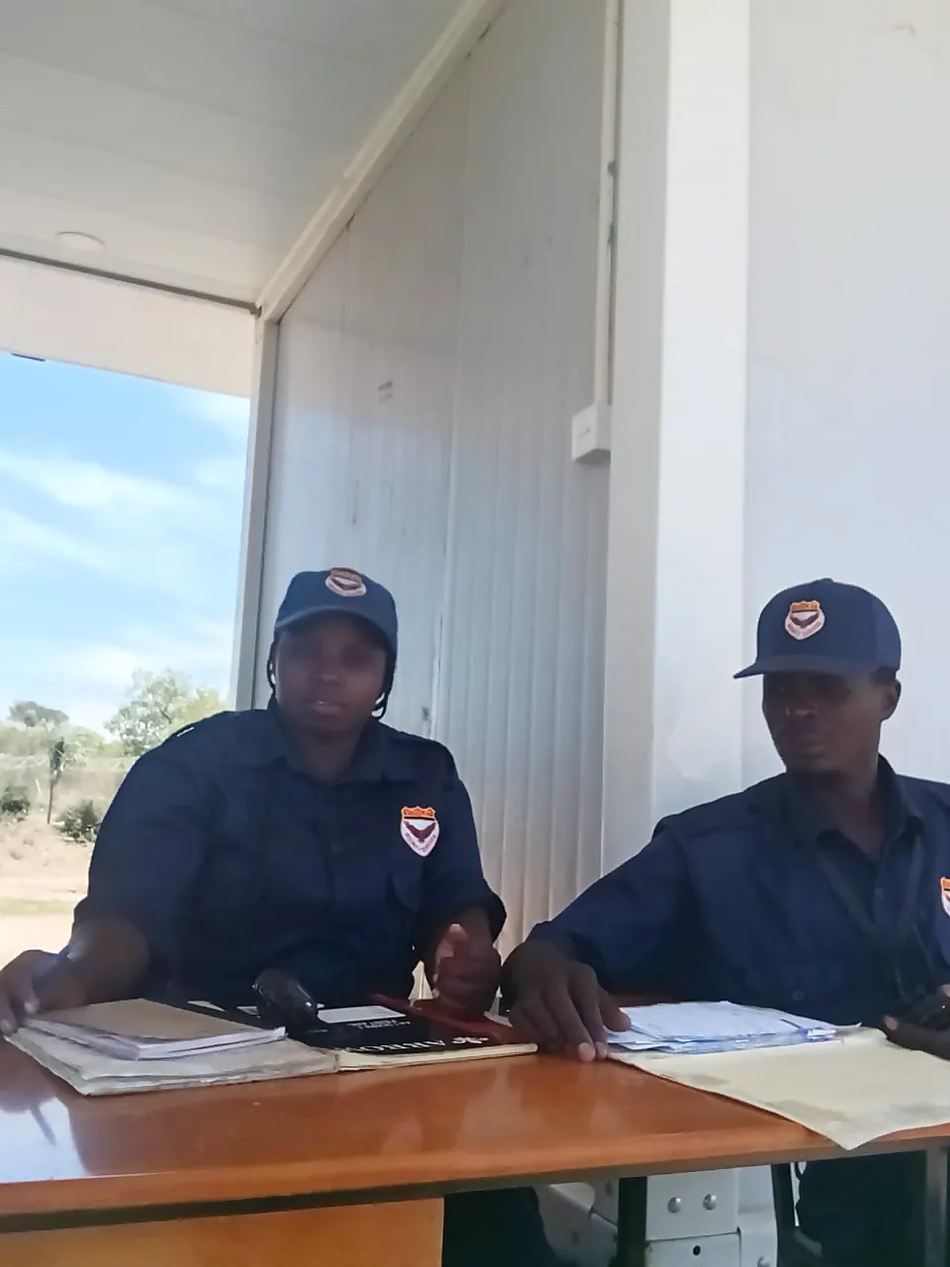
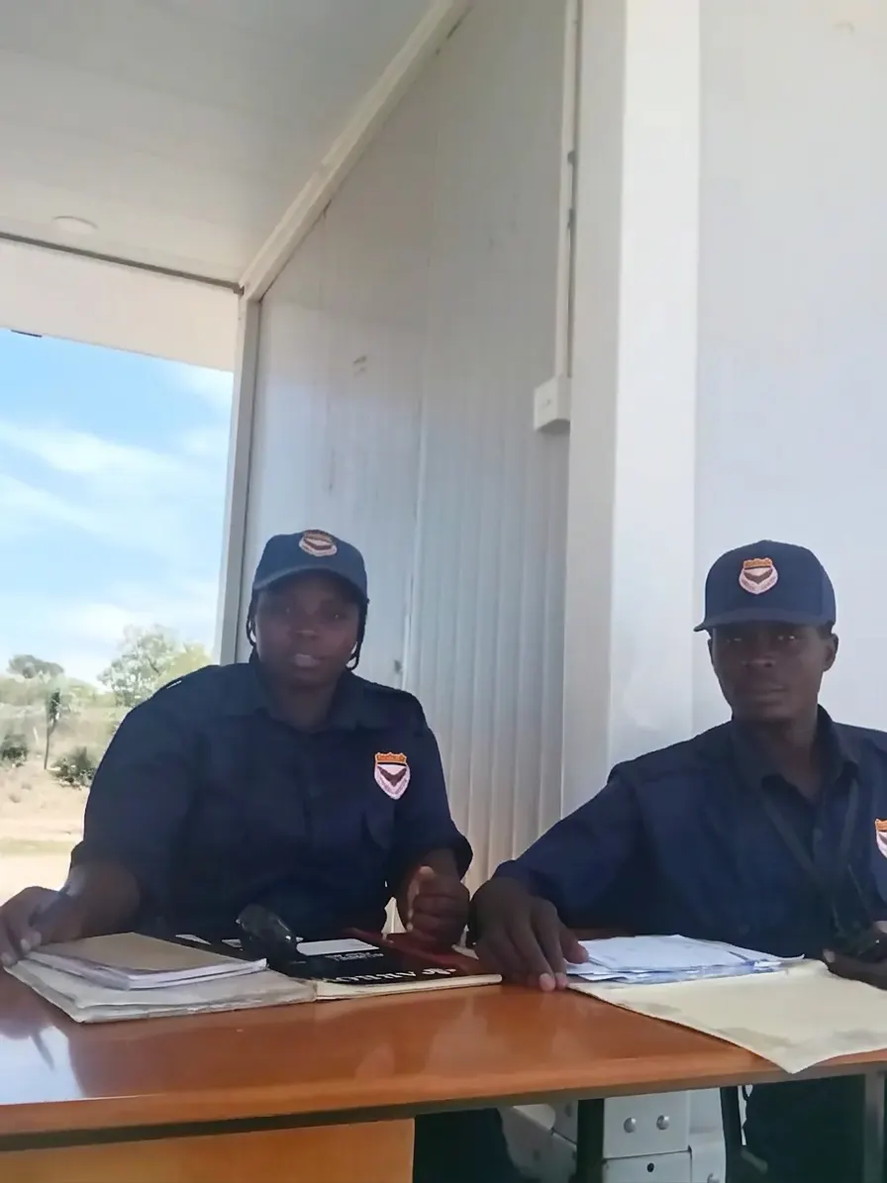
Fire drill + first aid equipment-only images, eye retouch, services above the archive
Imagery
- Fire drill and First aid now show the equipment and nothing else: one red
  extinguisher with its seal and blank inspection tag, one open first aid kit.
  Both live in assets/images/concept/ and carry the ILLUSTRATIVE CONCEPT IMAGE
  label, because the 152-capture archive holds no photograph of either object
  (the closest real frame, IMG_9313, is a drill on the grass). Each block also
  gains a sentence saying why the frame is the kit / the extinguisher.
- Retouched the gatehouse frame (wa-02) so the officer on the right is no
  longer mid-blink. The master sits in assets/retouched/ and process-wa-frames.sh
  now prefers a retouched master over the WhatsApp original and skips the
  filter for it, since the edit was made from the already-filtered derivative.
  Same people, pose, desk and light; nothing else in the frame changed.

Landing page order
- Services is now section 01 and the archive teaser follows at 02, then fleet
  03, cash-in-transit 04, about 05, estimator 06, dispatch 07. Header nav and
  the mobile drawer are reordered to match, and build_services.py's drawer
  rewrite follows the new number.
- Fixed the stale "12 SELECTED / 35 ARCHIVED" counter, which sits outside the
  generator's markers and so never updated with the new frames.

diff --git a/index.html b/index.html
@@ -70,9 +70,9 @@
       </a>
       <nav class="desktop-nav" aria-label="Primary navigation">
         <a class="nav-link is-active" href="#home">Home</a>
+        <a class="nav-link" href="#services">Services</a>
         <a class="nav-link" href="archive.html">Archive</a>
         <a class="nav-link" href="#fleet">Fleet</a>
-        <a class="nav-link" href="#services">Services</a>
         <a class="nav-link" href="#about">About</a>
         <a class="nav-link" href="#dispatch">Dispatch</a>
       </nav>
@@ -94,9 +94,9 @@
     </div>
     <nav class="drawer-nav" aria-label="Mobile navigation">
       <a href="#home"><span>01</span> Home <svg class="icon" aria-hidden="true"><use href="#i-up-right"/></svg></a>
-      <a href="archive.html"><span>02</span> Photo Archive <svg class="icon" aria-hidden="true"><use href="#i-up-right"/></svg></a>
-      <a href="#fleet"><span>03</span> Fleet &amp; Tech <svg class="icon" aria-hidden="true"><use href="#i-up-right"/></svg></a>
-      <a href="#services"><span>04</span> Services <svg class="icon" aria-hidden="true"><use href="#i-up-right"/></svg></a>
+      <a href="#services"><span>02</span> Services <svg class="icon" aria-hidden="true"><use href="#i-up-right"/></svg></a>
+      <a href="archive.html"><span>03</span> Photo Archive <svg class="icon" aria-hidden="true"><use href="#i-up-right"/></svg></a>
+      <a href="#fleet"><span>04</span> Fleet &amp; Tech <svg class="icon" aria-hidden="true"><use href="#i-up-right"/></svg></a>
       <a href="#about"><span>05</span> About Vonlet <svg class="icon" aria-hidden="true"><use href="#i-up-right"/></svg></a>
       <a href="#dispatch"><span>06</span> Dispatch / Contact <svg class="icon" aria-hidden="true"><use href="#i-up-right"/></svg></a>
     </nav>
@@ -166,12 +166,82 @@
       </div>
     </section>
 
+    <!-- SERVICES -->
+    <section class="section services-section" id="services" aria-labelledby="services-title">
+      <div class="container services-layout">
+        <div class="services-intro reveal">
+          <p class="eyebrow"><span class="section-number">01</span> INTEGRATED SERVICES</p>
+          <h2 id="services-title">Built around<br>your risk.</h2>
+          <p>No two sites carry the same risk. Combine trained people, practical procedures and the right technology into one coordinated security plan — a warehouse gate, a banking hall, a farm boundary, a family home. Vonlet has provided these services to clients across Zimbabwe and Zambia since 2010.</p>
+          <a class="button button--outline" href="#estimator">Build your coverage <svg class="icon" aria-hidden="true"><use href="#i-arrow"/></svg></a>
+          <div class="services-stamp"><svg class="icon" aria-hidden="true"><use href="#i-shield"/></svg><span>ONE PARTNER.<br><strong>EVERY LAYER.</strong></span></div>
+        </div>
+        <div class="service-list">
+          <article class="service-row reveal"><span class="service-number">01</span><div class="service-icon"><svg class="icon" aria-hidden="true"><use href="#i-shield"/></svg></div><div><h3>Armed &amp; unarmed guarding</h3><p>Static posts and roving patrols. Armed officers train intensively in-house with the Zimbabwe Republic Police and the Zambia National Police, and are deployed to higher-risk sites such as mines, fuel depots and premises holding valuable goods.</p></div><button class="service-link" type="button" data-service-link="armed" aria-label="Inquire about armed and unarmed guarding"><svg class="icon" aria-hidden="true"><use href="#i-up-right"/></svg></button></article>
+          <article class="service-row reveal"><span class="service-number">02</span><div class="service-icon"><svg class="icon" aria-hidden="true"><use href="#i-paw"/></svg></div><div><h3>K-9 services</h3><p>Watch and attack dogs supplied with handlers, plus dog handling training. The unit uses motivational training techniques and works alongside guards and law enforcement.</p></div><button class="service-link" type="button" data-service-link="k9" aria-label="Inquire about K-9 services"><svg class="icon" aria-hidden="true"><use href="#i-up-right"/></svg></button></article>
+          <article class="service-row reveal"><span class="service-number">03</span><div class="service-icon"><svg class="icon" aria-hidden="true"><use href="#i-camera"/></svg></div><div><h3>Electronic security &amp; CCTV</h3><p>CCTV systems, access control and intruder alarms — installed, maintained and monitored by Vonlet's technical team, with 24/7/365 support on protection.</p></div><button class="service-link" type="button" data-service-link="cctv" aria-label="Inquire about electronic security and CCTV"><svg class="icon" aria-hidden="true"><use href="#i-up-right"/></svg></button></article>
+          <article class="service-row reveal"><span class="service-number">04</span><div class="service-icon"><svg class="icon" aria-hidden="true"><use href="#i-radio"/></svg></div><div><h3>Rapid response &amp; monitoring</h3><p>Alarm systems linked to Vonlet's control room, plus a real-time guard tour platform built on NFC, beacon and QR-code tags that reports each checkpoint scan as it happens.</p></div><button class="service-link" type="button" data-service-link="response" aria-label="Inquire about rapid response and guard monitoring"><svg class="icon" aria-hidden="true"><use href="#i-up-right"/></svg></button></article>
+          <article class="service-row reveal"><span class="service-number">05</span><div class="service-icon"><svg class="icon" aria-hidden="true"><use href="#i-car"/></svg></div><div><h3>Cash-in-transit</h3><p>Management of the cash collection service: task assignment, route selection and accounting for all books, supported by Vonlet's branded fleet.</p></div><button class="service-link" type="button" data-service-link="cit" aria-label="Inquire about cash-in-transit"><svg class="icon" aria-hidden="true"><use href="#i-up-right"/></svg></button></article>
+          <article class="service-row reveal"><span class="service-number">06</span><div class="service-icon"><svg class="icon" aria-hidden="true"><use href="#i-lock"/></svg></div><div><h3>Undercover guards</h3><p>Discreet guards placed into your workplace to work alongside your staff, report on weak points and help prevent cash theft, shoplifting and vandalism.</p></div><button class="service-link" type="button" data-service-link="secret" aria-label="Inquire about undercover guards"><svg class="icon" aria-hidden="true"><use href="#i-up-right"/></svg></button></article>
+        </div>
+        <div class="service-sectors reveal">
+          <div class="service-sectors-head">
+            <p class="eyebrow">SECTORS WE GUARD<span class="service-sectors-tag">8 LINES</span></p>
+            <p>Where the risk actually sits: a banking hall and its ATM, a warehouse gate, a store floor, a farm boundary, an estate entrance, a function, a car in transit, a case that needs proving. The company gave us these eight directly for this site.</p>
+          </div>
+          <ul class="service-sectors-grid">
+            <li><a href="services.html#bank-and-atm-security"><span>01</span>Bank &amp; ATM security <svg class="icon" aria-hidden="true"><use href="#i-arrow"/></svg></a></li>
+            <li><a href="services.html#warehouse-security"><span>02</span>Warehouse &amp; logistics <svg class="icon" aria-hidden="true"><use href="#i-arrow"/></svg></a></li>
+            <li><a href="services.html#retail-security"><span>03</span>Retail security <svg class="icon" aria-hidden="true"><use href="#i-arrow"/></svg></a></li>
+            <li><a href="services.html#farms-and-mines-security"><span>04</span>Farms &amp; mines <svg class="icon" aria-hidden="true"><use href="#i-arrow"/></svg></a></li>
+            <li><a href="services.html#residential-security"><span>05</span>Residential &amp; estates <svg class="icon" aria-hidden="true"><use href="#i-arrow"/></svg></a></li>
+            <li><a href="services.html#functions-security"><span>06</span>Functions &amp; events <svg class="icon" aria-hidden="true"><use href="#i-arrow"/></svg></a></li>
+            <li><a href="services.html#private-escorts"><span>07</span>Private escorts <svg class="icon" aria-hidden="true"><use href="#i-arrow"/></svg></a></li>
+            <li><a href="services.html#private-investigations"><span>08</span>Private investigations <svg class="icon" aria-hidden="true"><use href="#i-arrow"/></svg></a></li>
+          </ul>
+        </div>
+        <div class="service-index reveal">
+          <div class="service-index-head">
+            <p class="eyebrow">ALL TWENTY-THREE SERVICE LINES</p>
+            <p>Fourteen published services plus cash-in-transit, and the eight sector, escort and investigation lines above, each described in full on this site. Every line has its own page section with what it covers, what is included and a direct request button.</p>
+            <a class="button button--outline" href="services.html">Read all twenty-three service lines <svg class="icon" aria-hidden="true"><use href="#i-arrow"/></svg></a>
+          </div>
+          <ul class="service-index-grid">
+            <li><a href="services.html#armed-guards">Armed guards <svg class="icon" aria-hidden="true"><use href="#i-arrow"/></svg></a></li>
+            <li><a href="services.html#unarmed-guards">Unarmed guards <svg class="icon" aria-hidden="true"><use href="#i-arrow"/></svg></a></li>
+            <li><a href="services.html#bank-and-atm-security">Bank &amp; ATM security <svg class="icon" aria-hidden="true"><use href="#i-arrow"/></svg></a></li>
+            <li><a href="services.html#warehouse-security">Warehouse security <svg class="icon" aria-hidden="true"><use href="#i-arrow"/></svg></a></li>
+            <li><a href="services.html#retail-security">Retail security <svg class="icon" aria-hidden="true"><use href="#i-arrow"/></svg></a></li>
+            <li><a href="services.html#farms-and-mines-security">Farms &amp; mines security <svg class="icon" aria-hidden="true"><use href="#i-arrow"/></svg></a></li>
+            <li><a href="services.html#residential-security">Residential security <svg class="icon" aria-hidden="true"><use href="#i-arrow"/></svg></a></li>
+            <li><a href="services.html#functions-security">Functions security <svg class="icon" aria-hidden="true"><use href="#i-arrow"/></svg></a></li>
+            <li><a href="services.html#private-escorts">Private escorts <svg class="icon" aria-hidden="true"><use href="#i-arrow"/></svg></a></li>
+            <li><a href="services.html#private-investigations">Private investigations <svg class="icon" aria-hidden="true"><use href="#i-arrow"/></svg></a></li>
+            <li><a href="services.html#secret-service">Secret service <svg class="icon" aria-hidden="true"><use href="#i-arrow"/></svg></a></li>
+            <li><a href="services.html#dog-services">Dog services <svg class="icon" aria-hidden="true"><use href="#i-arrow"/></svg></a></li>
+            <li><a href="services.html#dog-handling-training">Dog handling training <svg class="icon" aria-hidden="true"><use href="#i-arrow"/></svg></a></li>
+            <li><a href="services.html#secret-service">Secret service <svg class="icon" aria-hidden="true"><use href="#i-arrow"/></svg></a></li>
+            <li><a href="services.html#close-circuit-television-cctv">CCTV <svg class="icon" aria-hidden="true"><use href="#i-arrow"/></svg></a></li>
+            <li><a href="services.html#access-control-systems">Access control <svg class="icon" aria-hidden="true"><use href="#i-arrow"/></svg></a></li>
+            <li><a href="services.html#intruder-alarm-systems">Intruder alarms <svg class="icon" aria-hidden="true"><use href="#i-arrow"/></svg></a></li>
+            <li><a href="services.html#rapid-response-systems">Rapid response <svg class="icon" aria-hidden="true"><use href="#i-arrow"/></svg></a></li>
+            <li><a href="services.html#guard-monitoring-systems">Guard monitoring <svg class="icon" aria-hidden="true"><use href="#i-arrow"/></svg></a></li>
+            <li><a href="services.html#basic-security-guard-training">Basic guard training <svg class="icon" aria-hidden="true"><use href="#i-arrow"/></svg></a></li>
+            <li><a href="services.html#firearm-handling">Firearm handling <svg class="icon" aria-hidden="true"><use href="#i-arrow"/></svg></a></li>
+            <li><a href="services.html#fire-drill">Fire drill <svg class="icon" aria-hidden="true"><use href="#i-arrow"/></svg></a></li>
+            <li><a href="services.html#first-aid">First aid <svg class="icon" aria-hidden="true"><use href="#i-arrow"/></svg></a></li>
+            <li><a href="services.html#cash-in-transit">Cash-in-transit <svg class="icon" aria-hidden="true"><use href="#i-arrow"/></svg></a></li>
+          </ul>
+        </div>
+      </div>
+    </section>
+
     <!-- OPERATIONS GALLERY -->
     <section class="section gallery-section" id="gallery" aria-labelledby="gallery-title">
       <div class="container">
         <div class="section-heading reveal">
           <div>
-            <p class="eyebrow"><span class="section-number">01</span> SELECTED FROM THE ARCHIVE</p>
+            <p class="eyebrow"><span class="section-number">02</span> SELECTED FROM THE ARCHIVE</p>
             <h2 id="gallery-title">Fourteen frames<br>from the work.</h2>
           </div>
           <p class="section-intro">Fourteen photographs chosen from Vonlet's company archive: the chief executive, tactical teams, the operations desk, K-9 units, the fleet, the technical crew and officers on site this month. Near-identical frames were culled, so each image shows something the others do not. The full set, filtered by collection, has its own page.</p>
@@ -383,7 +453,7 @@
         </div>
         <div class="gallery-footnote">
           <p><svg class="icon" aria-hidden="true"><use href="#i-info"/></svg> Authentic photographs from the Vonlet company archive. Names of individual officers and clients are withheld; captions describe what is visible in each frame.</p>
-          <span id="gallery-count">12 SELECTED / 35 ARCHIVED</span>
+          <span id="gallery-count">14 SELECTED / 42 ARCHIVED</span>
         </div>
       </div>
     </section>
@@ -393,7 +463,7 @@
       <div class="container">
         <div class="section-heading reveal">
           <div>
-            <p class="eyebrow"><span class="section-number">02</span> FLEET &amp; TECHNOLOGY</p>
+            <p class="eyebrow"><span class="section-number">03</span> FLEET &amp; TECHNOLOGY</p>
             <h2 id="fleet-title">Capability, down to the detail.</h2>
           </div>
           <p class="section-intro">The vehicles, protective equipment and electronic systems behind a Vonlet deployment. Each panel is drawn from the company's own operational photographs.</p>
@@ -434,75 +504,6 @@
       </div>
     </section>
 
-    <!-- SERVICES -->
-    <section class="section services-section" id="services" aria-labelledby="services-title">
-      <div class="container services-layout">
-        <div class="services-intro reveal">
-          <p class="eyebrow"><span class="section-number">03</span> INTEGRATED SERVICES</p>
-          <h2 id="services-title">Built around<br>your risk.</h2>
-          <p>No two sites carry the same risk. Combine trained people, practical procedures and the right technology into one coordinated security plan — a warehouse gate, a banking hall, a farm boundary, a family home. Vonlet has provided these services to clients across Zimbabwe and Zambia since 2010.</p>
-          <a class="button button--outline" href="#estimator">Build your coverage <svg class="icon" aria-hidden="true"><use href="#i-arrow"/></svg></a>
-          <div class="services-stamp"><svg class="icon" aria-hidden="true"><use href="#i-shield"/></svg><span>ONE PARTNER.<br><strong>EVERY LAYER.</strong></span></div>
-        </div>
-        <div class="service-list">
-          <article class="service-row reveal"><span class="service-number">01</span><div class="service-icon"><svg class="icon" aria-hidden="true"><use href="#i-shield"/></svg></div><div><h3>Armed &amp; unarmed guarding</h3><p>Static posts and roving patrols. Armed officers train intensively in-house with the Zimbabwe Republic Police and the Zambia National Police, and are deployed to higher-risk sites such as mines, fuel depots and premises holding valuable goods.</p></div><button class="service-link" type="button" data-service-link="armed" aria-label="Inquire about armed and unarmed guarding"><svg class="icon" aria-hidden="true"><use href="#i-up-right"/></svg></button></article>
-          <article class="service-row reveal"><span class="service-number">02</span><div class="service-icon"><svg class="icon" aria-hidden="true"><use href="#i-paw"/></svg></div><div><h3>K-9 services</h3><p>Watch and attack dogs supplied with handlers, plus dog handling training. The unit uses motivational training techniques and works alongside guards and law enforcement.</p></div><button class="service-link" type="button" data-service-link="k9" aria-label="Inquire about K-9 services"><svg class="icon" aria-hidden="true"><use href="#i-up-right"/></svg></button></article>
-          <article class="service-row reveal"><span class="service-number">03</span><div class="service-icon"><svg class="icon" aria-hidden="true"><use href="#i-camera"/></svg></div><div><h3>Electronic security &amp; CCTV</h3><p>CCTV systems, access control and intruder alarms — installed, maintained and monitored by Vonlet's technical team, with 24/7/365 support on protection.</p></div><button class="service-link" type="button" data-service-link="cctv" aria-label="Inquire about electronic security and CCTV"><svg class="icon" aria-hidden="true"><use href="#i-up-right"/></svg></button></article>
-          <article class="service-row reveal"><span class="service-number">04</span><div class="service-icon"><svg class="icon" aria-hidden="true"><use href="#i-radio"/></svg></div><div><h3>Rapid response &amp; monitoring</h3><p>Alarm systems linked to Vonlet's control room, plus a real-time guard tour platform built on NFC, beacon and QR-code tags that reports each checkpoint scan as it happens.</p></div><button class="service-link" type="button" data-service-link="response" aria-label="Inquire about rapid response and guard monitoring"><svg class="icon" aria-hidden="true"><use href="#i-up-right"/></svg></button></article>
-          <article class="service-row reveal"><span class="service-number">05</span><div class="service-icon"><svg class="icon" aria-hidden="true"><use href="#i-car"/></svg></div><div><h3>Cash-in-transit</h3><p>Management of the cash collection service: task assignment, route selection and accounting for all books, supported by Vonlet's branded fleet.</p></div><button class="service-link" type="button" data-service-link="cit" aria-label="Inquire about cash-in-transit"><svg class="icon" aria-hidden="true"><use href="#i-up-right"/></svg></button></article>
-          <article class="service-row reveal"><span class="service-number">06</span><div class="service-icon"><svg class="icon" aria-hidden="true"><use href="#i-lock"/></svg></div><div><h3>Undercover guards</h3><p>Discreet guards placed into your workplace to work alongside your staff, report on weak points and help prevent cash theft, shoplifting and vandalism.</p></div><button class="service-link" type="button" data-service-link="secret" aria-label="Inquire about undercover guards"><svg class="icon" aria-hidden="true"><use href="#i-up-right"/></svg></button></article>
-        </div>
-        <div class="service-sectors reveal">
-          <div class="service-sectors-head">
-            <p class="eyebrow">SECTORS WE GUARD<span class="service-sectors-tag">8 LINES</span></p>
-            <p>Where the risk actually sits: a banking hall and its ATM, a warehouse gate, a store floor, a farm boundary, an estate entrance, a function, a car in transit, a case that needs proving. The company gave us these eight directly for this site.</p>
-          </div>
-          <ul class="service-sectors-grid">
-            <li><a href="services.html#bank-and-atm-security"><span>01</span>Bank &amp; ATM security <svg class="icon" aria-hidden="true"><use href="#i-arrow"/></svg></a></li>
-            <li><a href="services.html#warehouse-security"><span>02</span>Warehouse &amp; logistics <svg class="icon" aria-hidden="true"><use href="#i-arrow"/></svg></a></li>
-            <li><a href="services.html#retail-security"><span>03</span>Retail security <svg class="icon" aria-hidden="true"><use href="#i-arrow"/></svg></a></li>
-            <li><a href="services.html#farms-and-mines-security"><span>04</span>Farms &amp; mines <svg class="icon" aria-hidden="true"><use href="#i-arrow"/></svg></a></li>
-            <li><a href="services.html#residential-security"><span>05</span>Residential &amp; estates <svg class="icon" aria-hidden="true"><use href="#i-arrow"/></svg></a></li>
-            <li><a href="services.html#functions-security"><span>06</span>Functions &amp; events <svg class="icon" aria-hidden="true"><use href="#i-arrow"/></svg></a></li>
-            <li><a href="services.html#private-escorts"><span>07</span>Private escorts <svg class="icon" aria-hidden="true"><use href="#i-arrow"/></svg></a></li>
-            <li><a href="services.html#private-investigations"><span>08</span>Private investigations <svg class="icon" aria-hidden="true"><use href="#i-arrow"/></svg></a></li>
-          </ul>
-        </div>
-        <div class="service-index reveal">
-          <div class="service-index-head">
-            <p class="eyebrow">ALL TWENTY-THREE SERVICE LINES</p>
-            <p>Fourteen published services plus cash-in-transit, and the eight sector, escort and investigation lines above, each described in full on this site. Every line has its own page section with what it covers, what is included and a direct request button.</p>
-            <a class="button button--outline" href="services.html">Read all twenty-three service lines <svg class="icon" aria-hidden="true"><use href="#i-arrow"/></svg></a>
-          </div>
-          <ul class="service-index-grid">
-            <li><a href="services.html#armed-guards">Armed guards <svg class="icon" aria-hidden="true"><use href="#i-arrow"/></svg></a></li>
-            <li><a href="services.html#unarmed-guards">Unarmed guards <svg class="icon" aria-hidden="true"><use href="#i-arrow"/></svg></a></li>
-            <li><a href="services.html#bank-and-atm-security">Bank &amp; ATM security <svg class="icon" aria-hidden="true"><use href="#i-arrow"/></svg></a></li>
-            <li><a href="services.html#warehouse-security">Warehouse security <svg class="icon" aria-hidden="true"><use href="#i-arrow"/></svg></a></li>
-            <li><a href="services.html#retail-security">Retail security <svg class="icon" aria-hidden="true"><use href="#i-arrow"/></svg></a></li>
-            <li><a href="services.html#farms-and-mines-security">Farms &amp; mines security <svg class="icon" aria-hidden="true"><use href="#i-arrow"/></svg></a></li>
-            <li><a href="services.html#residential-security">Residential security <svg class="icon" aria-hidden="true"><use href="#i-arrow"/></svg></a></li>
-            <li><a href="services.html#functions-security">Functions security <svg class="icon" aria-hidden="true"><use href="#i-arrow"/></svg></a></li>
-            <li><a href="services.html#private-escorts">Private escorts <svg class="icon" aria-hidden="true"><use href="#i-arrow"/></svg></a></li>
-            <li><a href="services.html#private-investigations">Private investigations <svg class="icon" aria-hidden="true"><use href="#i-arrow"/></svg></a></li>
-            <li><a href="services.html#secret-service">Secret service <svg class="icon" aria-hidden="true"><use href="#i-arrow"/></svg></a></li>
-            <li><a href="services.html#dog-services">Dog services <svg class="icon" aria-hidden="true"><use href="#i-arrow"/></svg></a></li>
-            <li><a href="services.html#dog-handling-training">Dog handling training <svg class="icon" aria-hidden="true"><use href="#i-arrow"/></svg></a></li>
-            <li><a href="services.html#secret-service">Secret service <svg class="icon" aria-hidden="true"><use href="#i-arrow"/></svg></a></li>
-            <li><a href="services.html#close-circuit-television-cctv">CCTV <svg class="icon" aria-hidden="true"><use href="#i-arrow"/></svg></a></li>
-            <li><a href="services.html#access-control-systems">Access control <svg class="icon" aria-hidden="true"><use href="#i-arrow"/></svg></a></li>
-            <li><a href="services.html#intruder-alarm-systems">Intruder alarms <svg class="icon" aria-hidden="true"><use href="#i-arrow"/></svg></a></li>
-            <li><a href="services.html#rapid-response-systems">Rapid response <svg class="icon" aria-hidden="true"><use href="#i-arrow"/></svg></a></li>
-            <li><a href="services.html#guard-monitoring-systems">Guard monitoring <svg class="icon" aria-hidden="true"><use href="#i-arrow"/></svg></a></li>
-            <li><a href="services.html#basic-security-guard-training">Basic guard training <svg class="icon" aria-hidden="true"><use href="#i-arrow"/></svg></a></li>
-            <li><a href="services.html#firearm-handling">Firearm handling <svg class="icon" aria-hidden="true"><use href="#i-arrow"/></svg></a></li>
-            <li><a href="services.html#fire-drill">Fire drill <svg class="icon" aria-hidden="true"><use href="#i-arrow"/></svg></a></li>
-            <li><a href="services.html#first-aid">First aid <svg class="icon" aria-hidden="true"><use href="#i-arrow"/></svg></a></li>
-            <li><a href="services.html#cash-in-transit">Cash-in-transit <svg class="icon" aria-hidden="true"><use href="#i-arrow"/></svg></a></li>
-          </ul>
-        </div>
-      </div>
-    </section>
 
     <!-- CASH-IN-TRANSIT CONCEPT IMAGERY -->
     <section class="section cit-section" id="cash-in-transit" aria-labelledby="cit-title">

diff --git a/services.html b/services.html
@@ -68,9 +68,9 @@
       </a>
       <nav class="desktop-nav" aria-label="Primary navigation">
         <a class="nav-link" href="index.html#home">Home</a>
+        <a class="nav-link is-active" href="services.html" aria-current="page">Services</a>
         <a class="nav-link" href="archive.html">Archive</a>
         <a class="nav-link" href="index.html#fleet">Fleet</a>
-        <a class="nav-link is-active" href="services.html" aria-current="page">Services</a>
         <a class="nav-link" href="index.html#about">About</a>
         <a class="nav-link" href="index.html#dispatch">Dispatch</a>
       </nav>
@@ -92,9 +92,9 @@
     </div>
     <nav class="drawer-nav" aria-label="Mobile navigation">
       <a href="index.html#home"><span>01</span> Home <svg class="icon" aria-hidden="true"><use href="#i-up-right"/></svg></a>
-      <a href="archive.html"><span>02</span> Photo Archive <svg class="icon" aria-hidden="true"><use href="#i-up-right"/></svg></a>
-      <a href="index.html#fleet"><span>03</span> Fleet &amp; Tech <svg class="icon" aria-hidden="true"><use href="#i-up-right"/></svg></a>
-      <a href="services.html"><span>04</span> Services <svg class="icon" aria-hidden="true"><use href="#i-up-right"/></svg></a>
+      <a href="services.html"><span>02</span> Services <svg class="icon" aria-hidden="true"><use href="#i-up-right"/></svg></a>
+      <a href="archive.html"><span>03</span> Photo Archive <svg class="icon" aria-hidden="true"><use href="#i-up-right"/></svg></a>
+      <a href="index.html#fleet"><span>04</span> Fleet &amp; Tech <svg class="icon" aria-hidden="true"><use href="#i-up-right"/></svg></a>
       <a href="index.html#about"><span>05</span> About Vonlet <svg class="icon" aria-hidden="true"><use href="#i-up-right"/></svg></a>
       <a href="index.html#dispatch"><span>06</span> Dispatch / Contact <svg class="icon" aria-hidden="true"><use href="#i-up-right"/></svg></a>
     </nav>
@@ -634,9 +634,9 @@
           </article>
           <article class="service-block" id="fire-drill">
             <div class="service-block-media">
-              <img src="assets/images/full/IMG_9261.webp" alt="Vonlet staff seated around a conference table during a training session" loading="lazy" decoding="async">
+              <img src="assets/images/concept/fire-drill-equipment.jpg" alt="Illustration: a red dry-powder extinguisher with an intact safety seal and a blank inspection tag, standing against a corrugated steel kerb painted in faded hazard stripes" loading="lazy" decoding="async">
               <span class="service-block-index">19 / 23</span>
-              <span class="service-media-note">FROM THE COMPANY ARCHIVE</span>
+              <span class="service-media-note service-media-note--concept">ILLUSTRATIVE CONCEPT IMAGE — NOT A COMPANY PHOTOGRAPH</span>
             </div>
             <div class="service-block-body">
               <p class="eyebrow">TRAINING &amp; SAFETY</p>
@@ -644,6 +644,7 @@
               <p class="service-block-summary">Guards keep escape routes usable and fire equipment serviceable.</p>
               <div class="service-block-copy">
               <p>The guard on site ensures that fire extinguishers are neither expired nor damaged, clears corridors of impediments so people can evacuate quickly, and makes sure exit doors are kept clear and accessible to anyone who needs to leave.</p>
+              <p>The frame below is deliberately the equipment and nothing else: what a Vonlet officer checks on a fire round is the extinguisher in its bracket, its seal and its service tag, the pressure reading, and the path to the exit door.</p>
               </div>
               <ul class="service-points">
                 <li>Fire extinguisher checks</li>
@@ -659,9 +660,9 @@
           </article>
           <article class="service-block" id="first-aid">
             <div class="service-block-media">
-              <img src="assets/images/full/IMG_9264.webp" alt="Vonlet staff working around the training table with laptops open" loading="lazy" decoding="async">
+              <img src="assets/images/concept/first-aid-kit.jpg" alt="Illustration: an open white first aid kit on a concrete floor, with a rolled bandage, gauze pads, adhesive tape, scissors and disposable gloves, and a green cross inside the lid" loading="lazy" decoding="async">
               <span class="service-block-index">20 / 23</span>
-              <span class="service-media-note">FROM THE COMPANY ARCHIVE</span>
+              <span class="service-media-note service-media-note--concept">ILLUSTRATIVE CONCEPT IMAGE — NOT A COMPANY PHOTOGRAPH</span>
             </div>
             <div class="service-block-body">
               <p class="eyebrow">TRAINING &amp; SAFETY</p>
@@ -669,6 +670,7 @@
               <p class="service-block-summary">Life-saving training for the first minutes of a medical emergency.</p>
               <div class="service-block-copy">
               <p>First aid is the immediate treatment of a patient before trained medical personnel can take over. It is a core part of guard training at Vonlet rather than an optional extra, because it is the technique that keeps a casualty alive at the scene of an emergency.</p>
+              <p>The frame below shows the kit and nothing else, because the kit is the part the guard owns: the dressing, the tape, the gloves and the sling that have to be packed, in date and reachable before an ambulance can be.</p>
               </div>
               <ul class="service-points">
                 <li>Immediate casualty care</li>

diff --git a/tools/build_services.py b/tools/build_services.py
@@ -457,6 +457,7 @@ SERVICES = [
         summary="Guards keep escape routes usable and fire equipment serviceable.",
         paragraphs=[
             "The guard on site ensures that fire extinguishers are neither expired nor damaged, clears corridors of impediments so people can evacuate quickly, and makes sure exit doors are kept clear and accessible to anyone who needs to leave.",
+            "The frame below is deliberately the equipment and nothing else: what a Vonlet officer checks on a fire round is the extinguisher in its bracket, its seal and its service tag, the pressure reading, and the path to the exit door.",
         ],
         points=[
             "Fire extinguisher checks",
@@ -464,9 +465,9 @@ SERVICES = [
             "Exit doors kept accessible",
             "Faster, safer evacuation",
         ],
-        image="assets/images/full/IMG_9261.webp",
-        alt="Vonlet staff seated around a conference table during a training session",
-        note=ARCHIVE_NOTE,
+        image="assets/images/concept/fire-drill-equipment.jpg",
+        alt="Illustration: a red dry-powder extinguisher with an intact safety seal and a blank inspection tag, standing against a corrugated steel kerb painted in faded hazard stripes",
+        note=CONCEPT_NOTE,
         source=f"{SITE}/service/fire-drill/",
         dispatch="training",
         dispatch_label="Fire drill training",
@@ -478,15 +479,16 @@ SERVICES = [
         summary="Life-saving training for the first minutes of a medical emergency.",
         paragraphs=[
             "First aid is the immediate treatment of a patient before trained medical personnel can take over. It is a core part of guard training at Vonlet rather than an optional extra, because it is the technique that keeps a casualty alive at the scene of an emergency.",
+            "The frame below shows the kit and nothing else, because the kit is the part the guard owns: the dressing, the tape, the gloves and the sling that have to be packed, in date and reachable before an ambulance can be.",
         ],
         points=[
             "Immediate casualty care",
             "Delivered inside basic guard training",
             "Taught alongside fire drill and firearm handling",
         ],
-        image="assets/images/full/IMG_9264.webp",
-        alt="Vonlet staff working around the training table with laptops open",
-        note=ARCHIVE_NOTE,
+        image="assets/images/concept/first-aid-kit.jpg",
+        alt="Illustration: an open white first aid kit on a concrete floor, with a rolled bandage, gauze pads, adhesive tape, scissors and disposable gloves, and a green cross inside the lid",
+        note=CONCEPT_NOTE,
         source=f"{SITE}/service/first-aid/",
         dispatch="training",
         dispatch_label="First aid training",
@@ -672,8 +674,8 @@ def main() -> None:
         '<a class="nav-link is-active" href="services.html" aria-current="page">Services</a>',
     )
     shell = shell.replace(
-        '<a href="index.html#services"><span>04</span> Services',
-        '<a href="services.html"><span>04</span> Services',
+        '<a href="index.html#services"><span>02</span> Services',
+        '<a href="services.html"><span>02</span> Services',
     )
     shell = shell.replace(
         '<a href="index.html#services">Services <svg',

diff --git a/README.md b/README.md
@@ -14,7 +14,7 @@ Then visit `http://localhost:8080`.
 
 ## Deliverables
 
-- `index.html` — the landing page: inline SVG icon sprite, hero, fourteen selected archive frames, fleet, services (including the eight-sector strip), cash-in-transit feature, company profile, estimator and dispatch form.
+- `index.html` — the landing page: inline SVG icon sprite, hero, services (including the eight-sector strip), fourteen selected archive frames, fleet, cash-in-transit feature, company profile, estimator and dispatch form. Services opens the page and the photographs follow it: services 01, gallery 02, fleet 03, cash-in-transit 04, about 05, estimator 06, dispatch 07 — and the header nav and the mobile drawer are listed in that same order.
 - `archive.html` — the 42-photograph archive, one frame per scene, with collection filters and the shared lightbox.
 - `services.html` — all twenty-three service lines in full, with jump links and per-service request buttons; each published line carries a source link back to the page it came from, and each client-supplied line says so instead.
 - `styles.css` — design tokens, self-hosted fonts, grid/flex layouts, HUD styling, animations and responsive breakpoints.
@@ -26,7 +26,7 @@ Then visit `http://localhost:8080`.
 - `assets/favicon.png`, `assets/apple-touch-icon.png` — icons generated from `assets/logo.jpeg`.
 - `assets/fonts/` — locally hosted Barlow files with their licences.
 - `tools/process-images.sh` — regenerates both WebP sizes from the original JPG archive.
-- `tools/process-wa-frames.sh` — the second pipeline, for the WhatsApp site frames the client drops into `assets/`: filters each frame (haze/levels, shadow lift, gentle despeckle, unsharp) and writes the same two WebP sizes under `wa-*` names.
+- `tools/process-wa-frames.sh` — the second pipeline, for the WhatsApp site frames the client drops into `assets/`: filters each frame (haze/levels, shadow lift, gentle despeckle, unsharp) and writes the same two WebP sizes under `wa-*` names. A frame with a matching master in `assets/retouched/` uses that instead and skips the filter, because the retouch was made from the already-filtered derivative.
 - `tools/build_gallery.py` — the photo catalogue (collection, title, alt text per image) and the generator that writes the featured grid into `index.html` and the full grid into `archive.html`.
 - `tools/build_services.py` — the service catalogue (slug, group, copy, points, image, dispatch mapping, source URL) and the generator that writes `services.html`.
 
@@ -41,6 +41,7 @@ Then visit `http://localhost:8080`.
 - Captions deliberately withhold individual officers' and clients' names. Do not add names to the archive without written consent.
 - **The archive is de-duplicated.** The 152 captures were shot as bursts: the same two-man baton stance from eight angles, one CEO desk sitting in eight frames, one reception counter five times over. Each burst was reduced to its strongest frame (widest composition, sharpest, most representative), keeping one picture per distinct person, place and action — 35 frames in total. When adding photographs, apply the same rule: if two frames differ only by a step to the left, keep one. The `dHash` pass in the notes below groups candidates, but the keep/drop decision is a visual one.
 - **The WhatsApp frames are the exception to that rule** — at the client's request all seven are kept, including the two quad-bike and two armed-post angles of the same site. WhatsApp had already shrunk them to 1280px, so they are *not* 4K masters and are never enlarged: `tools/process-wa-frames.sh` improves what is there (levels, haze, a shadow lift, gentle despeckle, unsharp) and writes `wa-*` WebPs at the same two sizes as the Drive set. One frame is cropped 130px on the left, which removes the thumb that intruded into the corner.
+- **One frame is retouched, at the client's request.** `wa-02-gatehouse-register` — the two officers at the gatehouse desk, used on the landing page and in the Bank & ATM block — caught the officer on the right mid-blink, so his eyes were opened in an edit. The master is `assets/retouched/wa-02-gatehouse-register.png`; the pipeline prefers it over the WhatsApp original and does not re-filter it. Nothing else in the frame was changed: same two officers, same pose, same desk, same light, no skin smoothing. To undo, delete that file and rerun `bash tools/process-wa-frames.sh`.
 
 ## Content & provenance
 
@@ -48,9 +49,10 @@ Then visit `http://localhost:8080`.
 - All twenty-three service lines are described in full on `services.html`. Fifteen are sourced from the fourteen `/service/...` pages plus the cash-in-transit block on the home page, and each of those keeps a **Source page** link so the copy can be checked against the original. The other eight — bank & ATM, warehouse, retail, farms & mines, residential, functions, private escorts, private investigations — were given to us by the company for this site and are **not yet published on vonletsecurity.co.zw**; their blocks carry a client-supplied label instead of a source link, so nothing on the page implies a provenance the external site does not have. Nothing about a service line lives only on the external site now.
 - Two source texts were corrected rather than copied blindly: the guard-training page lists "First Drill" where it means fire drill, and the firearm-handling page is written for a US licensing regime ("vary from state to state"), which is stated here as requirements differing between jurisdictions.
 - The four figures in "Built on record" are published company facts: founded 2010, 24/7/365 technical support, two countries, and fifteen *published* service lines (fourteen published services plus cash-in-transit). The figure is labelled "Published service lines" so it stays true while the catalogue on this site runs to twenty-three.
-- All 35 archived photographs are authentic company material, culled from the 152-capture set for near-duplicates; none were retouched.
-- The four cash-in-transit images in `assets/images/cit/` are the one exception: AI-generated concept illustrations showing the route, a crew check, the loading bay and the counter handover. They are generated against the real brand kit — `assets/logo-mark.png` for the shield, `IMG_9336` for the fleet livery (white panel van, yellow windscreen band, blue VONLET SECURITY door lettering) and `IMG_9302`/`IMG_9299` for the uniform (light-blue shirt, navy tactical vest, navy cap, reflective overalls for drivers) — so the vehicle, livery, clothing and dry-season light stay consistent across all four. They sit in their own `#cash-in-transit` band and every one is labelled `ILLUSTRATIVE — AI-GENERATED CONCEPT IMAGERY, NOT COMPANY PHOTOGRAPHS`. Never move them into the archive grid or present them as company photographs.
+- 41 of the 42 archived photographs are authentic company material, culled from the 152-capture Drive set and the client's WhatsApp frames; the single exception is the eye retouch on `wa-02-gatehouse-register` described above. No other frame is altered.
+- Six images are not company photographs: four cash-in-transit concepts in `assets/images/cit/` (the route, a crew check, the loading bay and the counter handover) and two equipment-only concepts in `assets/images/concept/` for the Fire drill and First aid blocks. They are generated against the real brand kit — `assets/logo-mark.png` for the shield, `IMG_9336` for the fleet livery (white panel van, yellow windscreen band, blue VONLET SECURITY door lettering) and `IMG_9302`/`IMG_9299` for the uniform (light-blue shirt, navy tactical vest, navy cap, reflective overalls for drivers) — so the vehicle, livery, clothing and dry-season light stay consistent across all four. They sit in their own `#cash-in-transit` band and every one is labelled `ILLUSTRATIVE — AI-GENERATED CONCEPT IMAGERY, NOT COMPANY PHOTOGRAPHS`. Never move them into the archive grid or present them as company photographs.
 - If these are ever regenerated, reuse the shipped `assets/images/cit/v2-*.jpg` frames as image references (plus `assets/logo-mark.png`) and keep one vehicle model, one uniform and one season across the set; the first attempt drifted into different vans, different shirts and a warped badge on each frame.
+- The Fire drill and First aid blocks carry the equipment and nothing else — one extinguisher with its seal and inspection tag, one open first aid kit — because the 152-capture archive contains no photograph of either object (the closest real frame, `IMG_9313`, is a restraint drill on the grass). Both are generated with no people, no text and no logos in shot, which keeps garbled lettering and fake badges out of them, and both carry `ILLUSTRATIVE CONCEPT IMAGE — NOT A COMPANY PHOTOGRAPH` under the frame. Send a real photograph of an extinguisher and of the site kit and `build_services.py` needs only its `image`/`alt`/`note` fields swapped to drop the label.
 
 ## Brand mark
 
